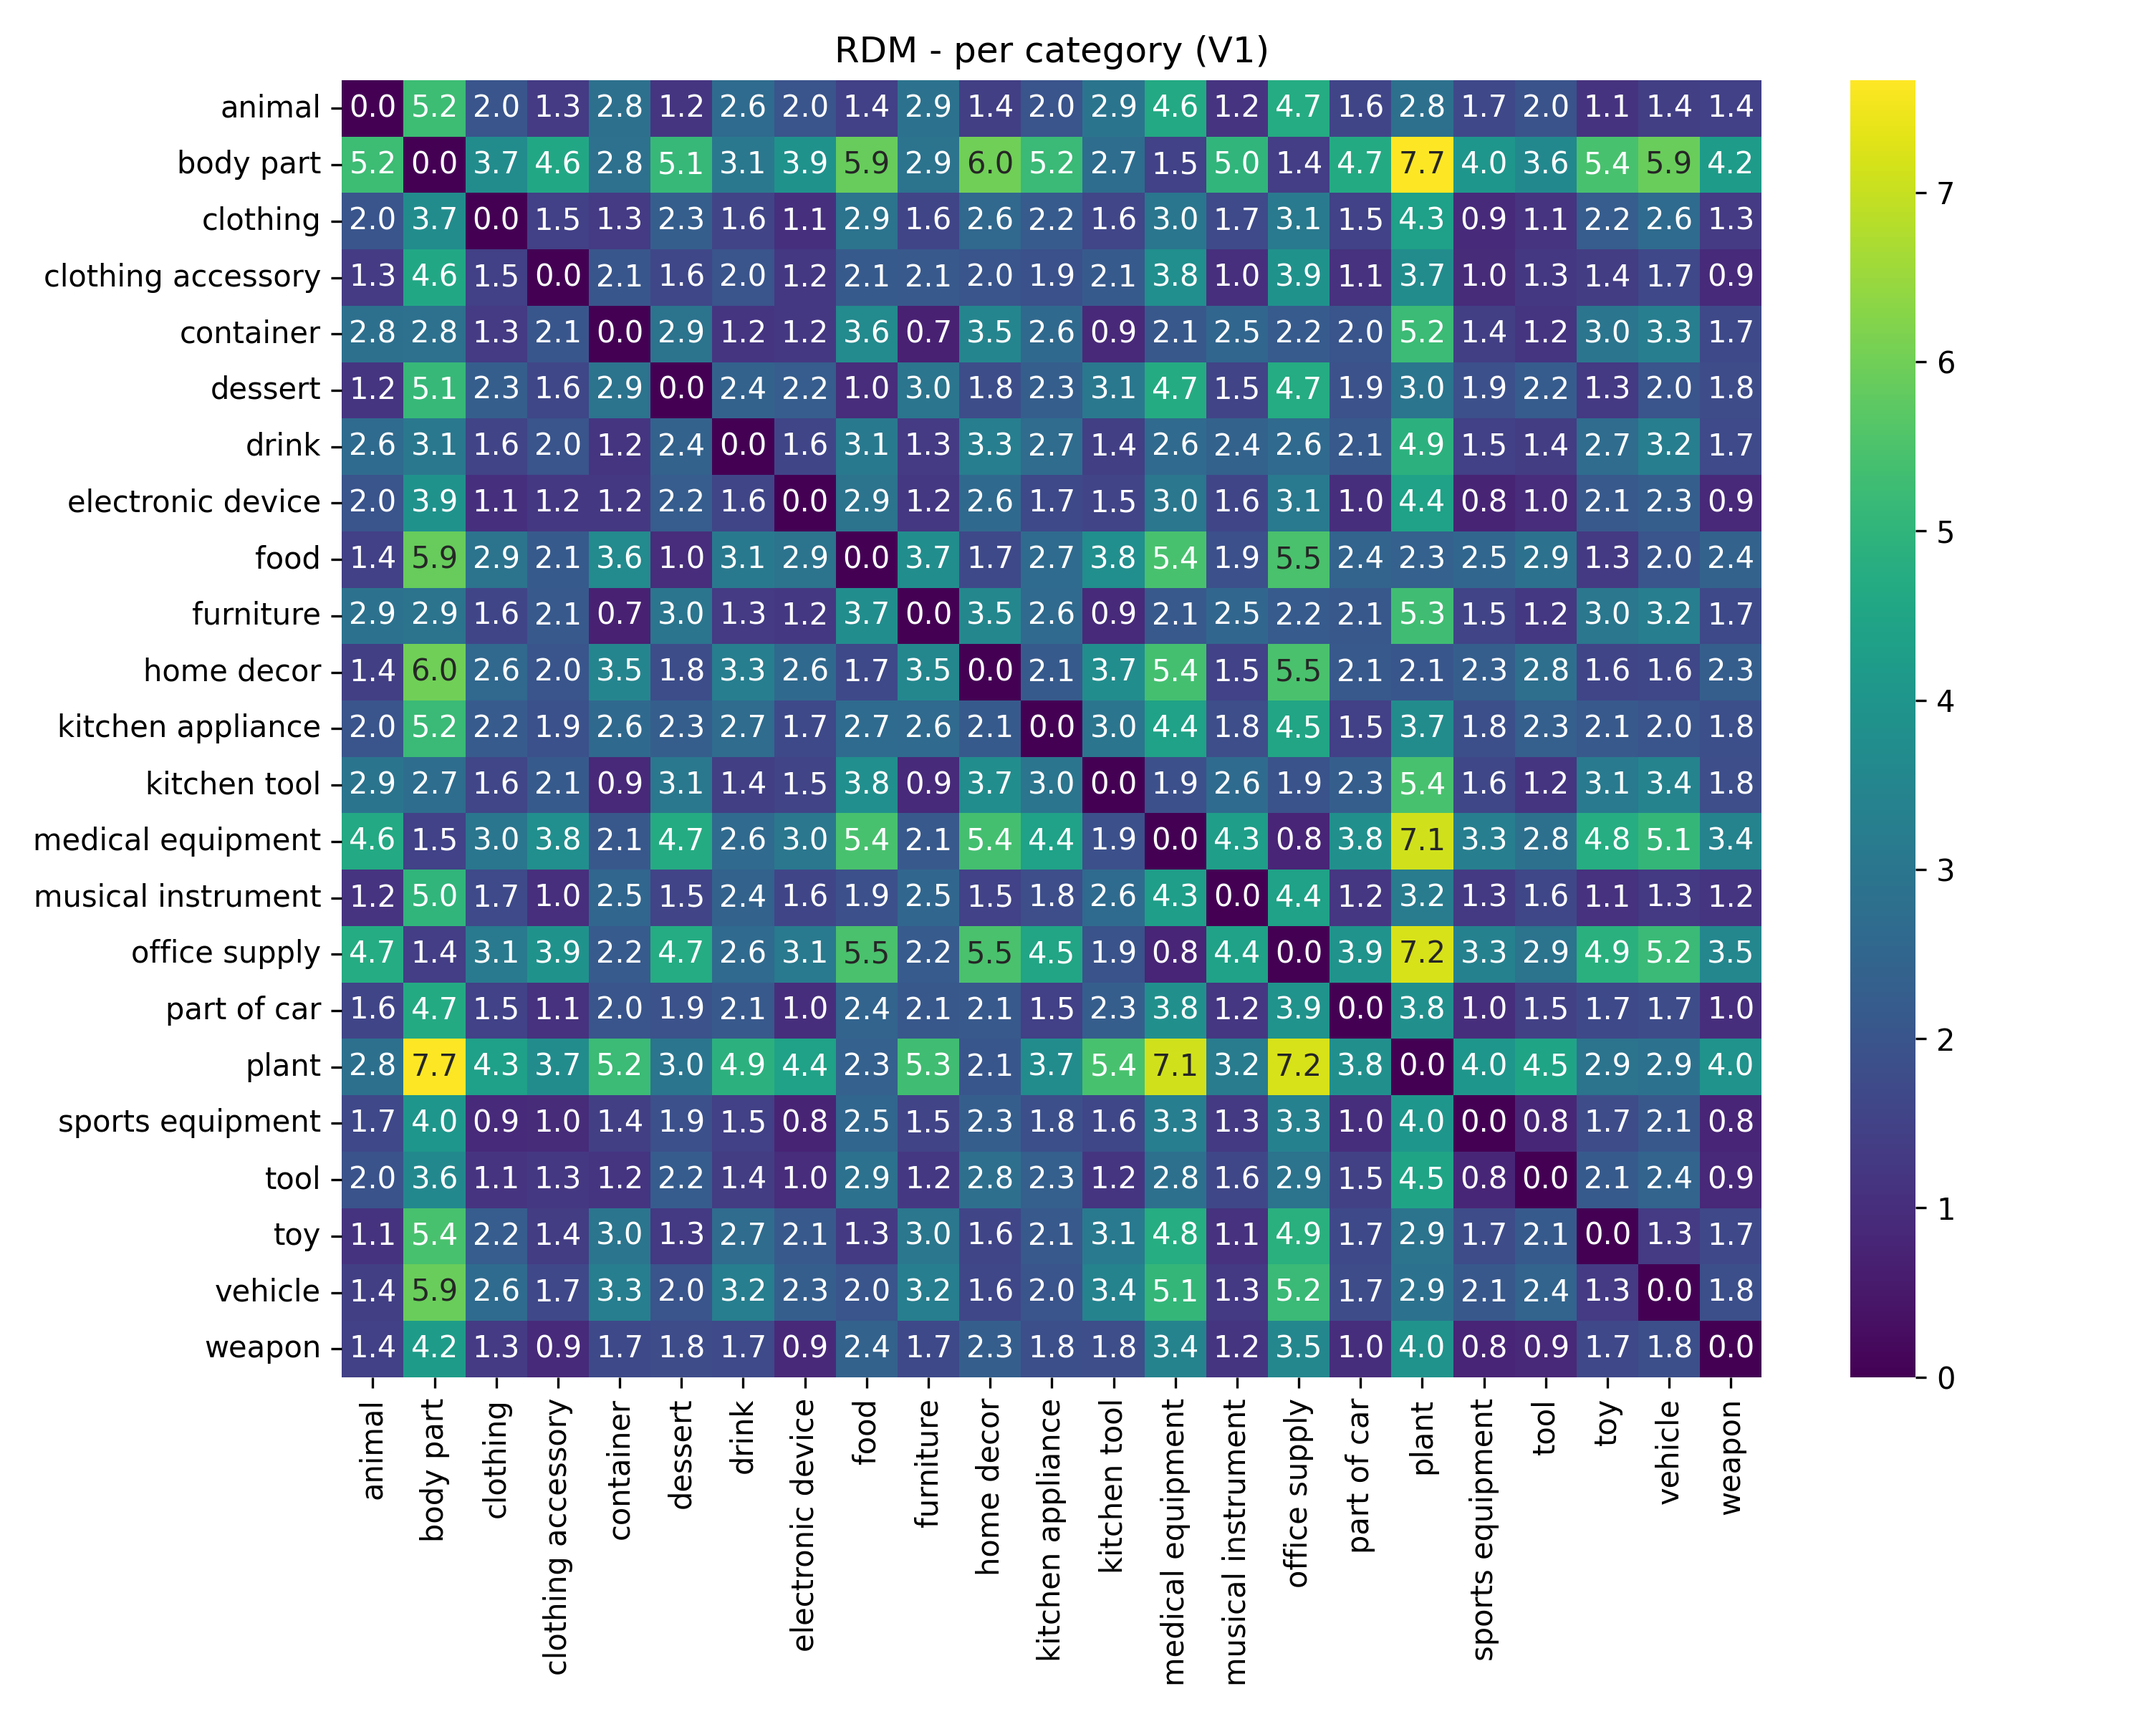
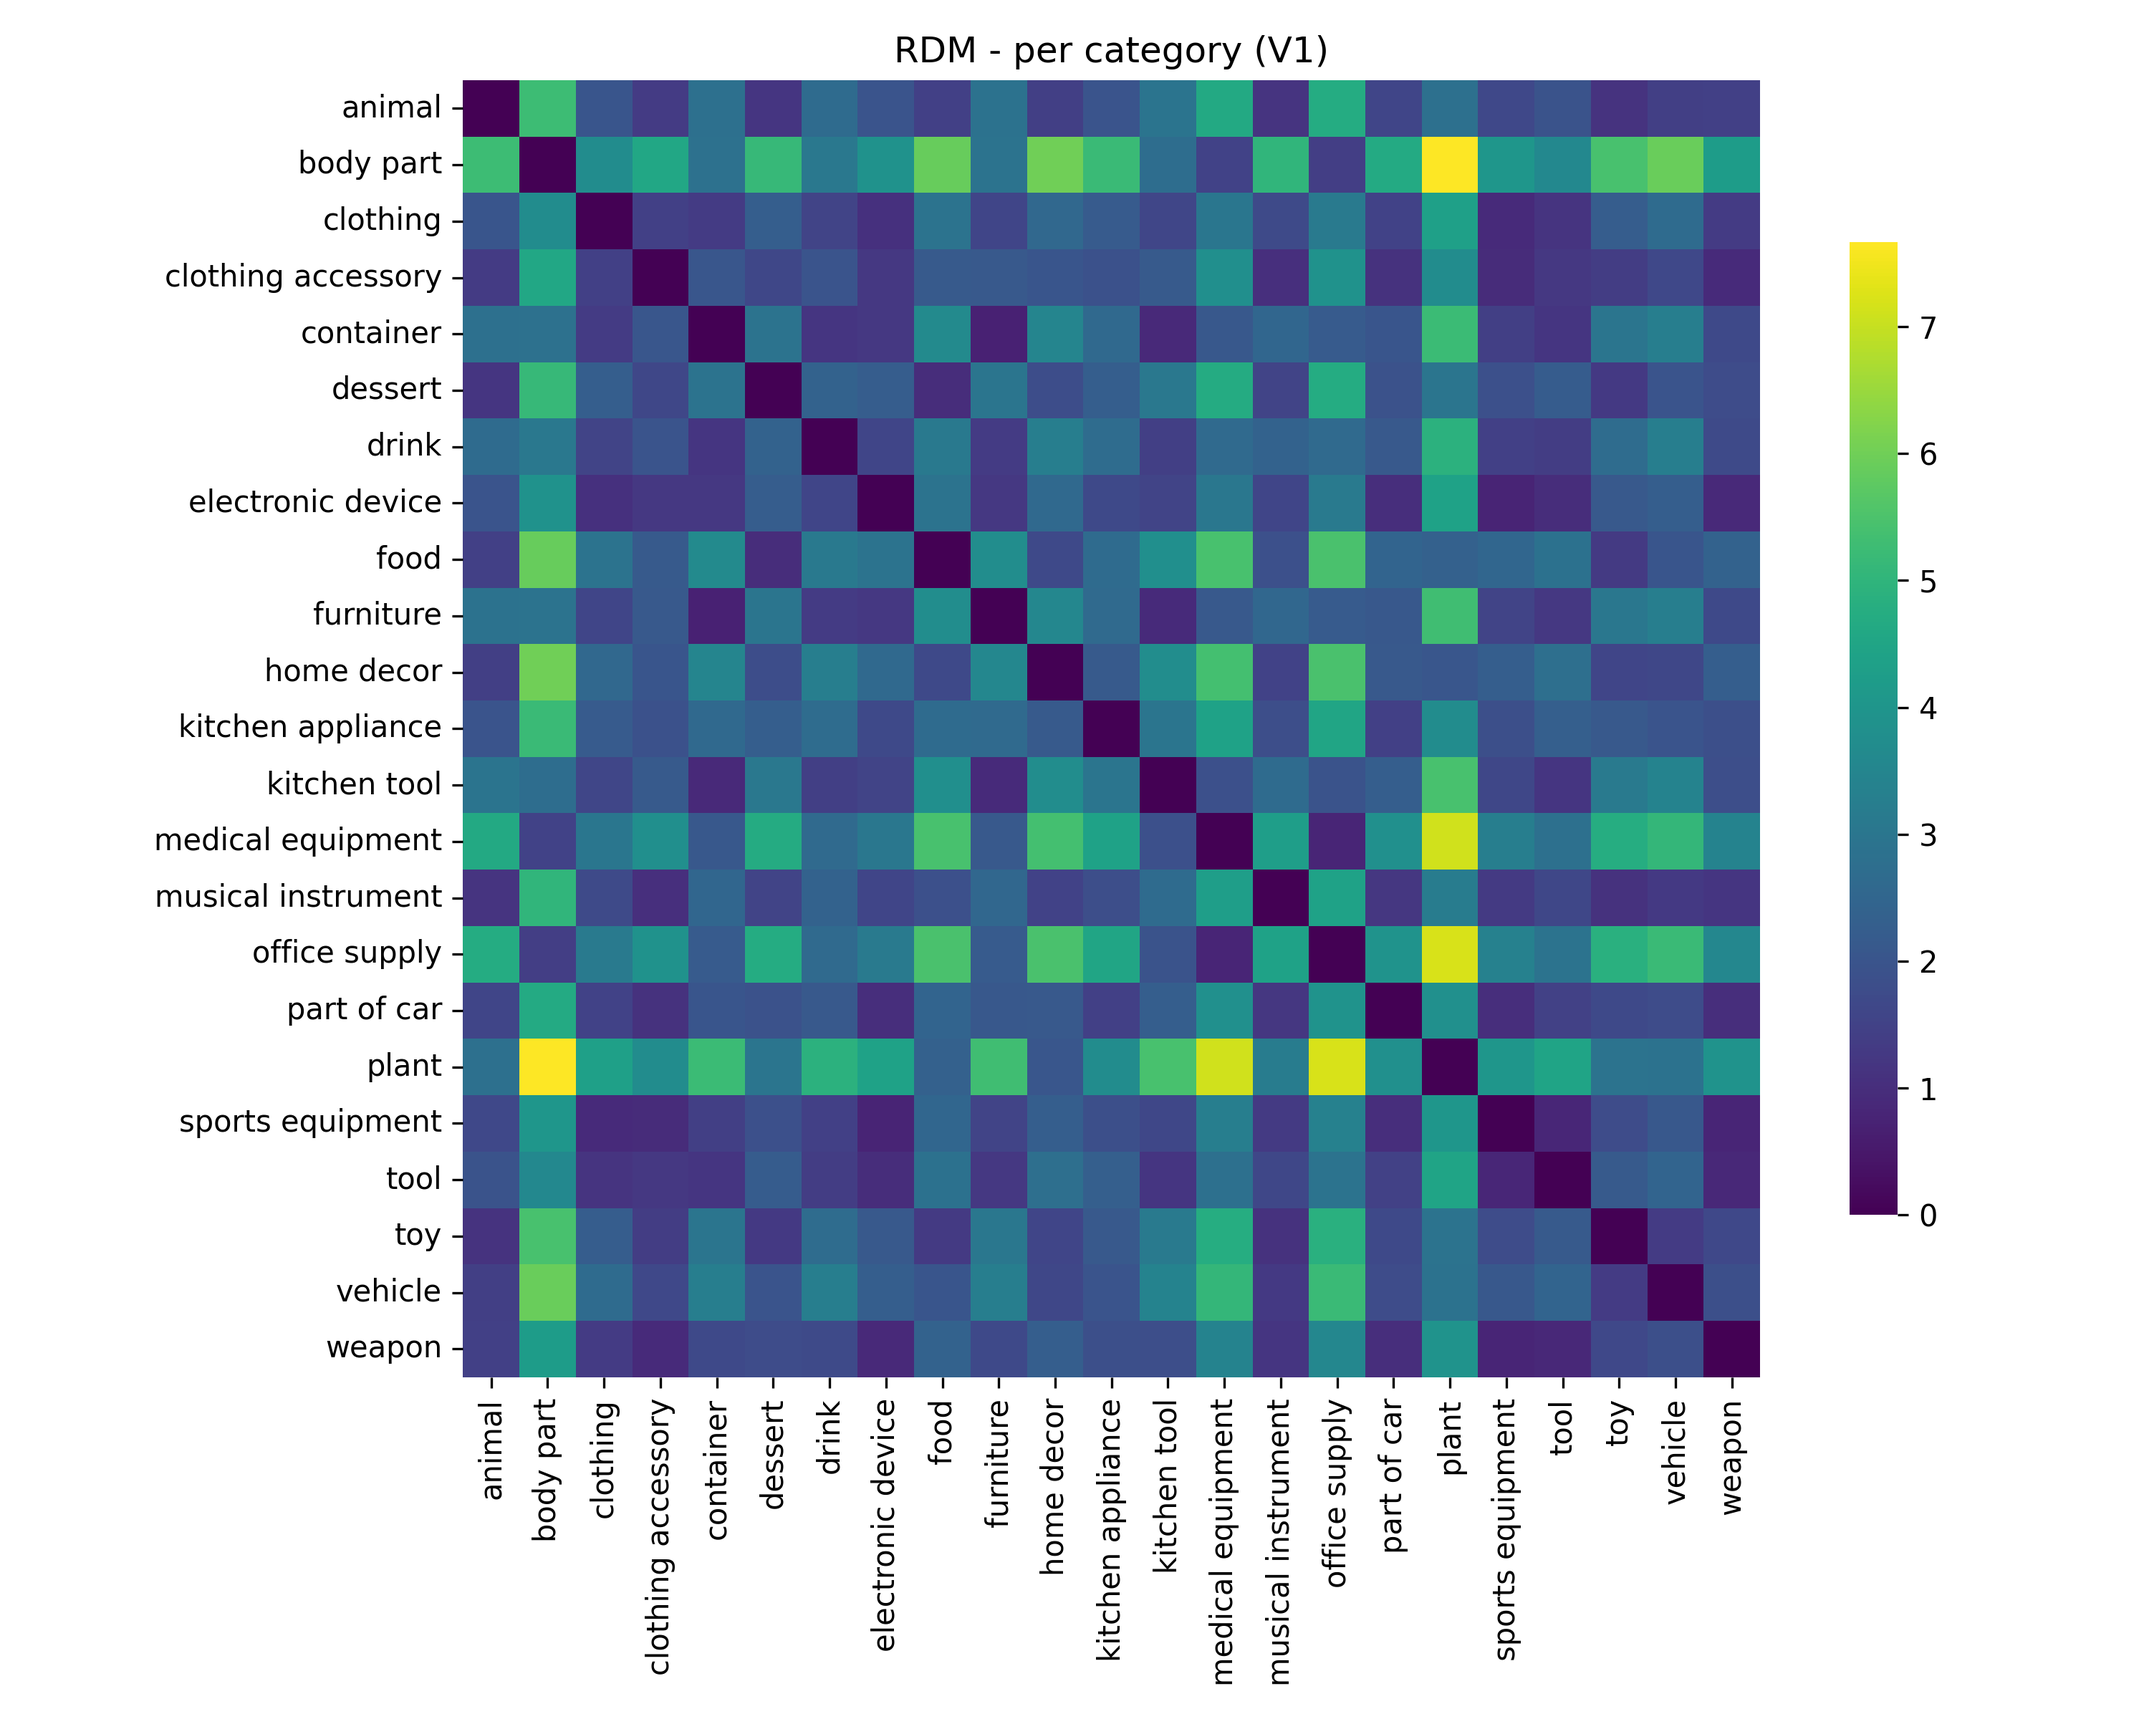
fixed code for rdm display

diff --git a/config.py b/config.py
@@ -7,9 +7,12 @@ image_path = 'C:/Users/mario/OneDrive/Escritorio/NeuroData/Data analysis seminar
 monkey_id = 'MonkeyN'  # Options: 'MonkeyN', 'MonkeyF'
 
 # Animal classes to exclude
-excluded_classes = [
-    'dragonfly', 'earwig', 'grasshopper', 'moth', 'fly', 'beetle', 'bug', 'cockroach',
-    'bee', 'butterfly', 'caterpillar', 'ladybug', 'lightning_bug', 'mosquito', 'praying_mantis'
-]
+excluded_classes = ['alligator', 'ant', 'antelope', 'barnacle', 'bear', 'bird', 'blowfish', 'bull', 'camel', 'cat', 'cheetah',
+ 'chicken_wire', 'chinchilla', 'clam', 'cockatoo', 'cougar', 'coyote', 'crayfish', 'dalmatian', 'dog', 'donkey', 'duckling',
+ 'eel', 'ferret', 'flamingo', 'frog', 'giraffe', 'goldfish', 'gopher', 'groundhog', 'hamster', 'hedgehog', 'horse', 'hyena',
+ 'jellyfish', 'kitten', 'lamb', 'leopard', 'lizard', 'lobster', 'manatee', 'mole', 'monkey', 'mouse1', 'octopus', 'ostrich',
+ 'owl', 'panda', 'parrot', 'pelican', 'pheasant', 'pigeon', 'platypus', 'pony', 'porcupine', 'puffin', 'puppy', 'raccoon', 'ram',
+ 'rattlesnake', 'rhinoceros', 'sardine', 'scorpion', 'seagull', 'seal', 'sheep', 'skunk', 'slug', 'snake', 'squid', 'starfish',
+ 'swan', 'tadpole', 'tick', 'toad', 'turkey', 'vulture', 'warthog', 'weasel', 'wolf', 'yak']
 
 pretrained_model = "ViT-B/32"  # Options: "ViT-B/32", 

diff --git a/utils.py b/utils.py
@@ -11,9 +11,7 @@ import os
 # Function to compute RDMs
 
 def compute_rdm(vectors, labels=None, metric='euclidean', show_heatmap=True, save_path=None, title="RDM"):
-    if labels is None:
-        labels = [f"Item{i}" for i in range(len(vectors))]
-
+    
     # Compute RDM
     dist_array = pdist(vectors, metric=metric)
     dist_matrix = pd.DataFrame(squareform(dist_array), index=labels, columns=labels)
@@ -22,8 +20,11 @@ def compute_rdm(vectors, labels=None, metric='euclidean', show_heatmap=True, sav
     # Optional heatmap
     if show_heatmap or save_path:
         plt.figure(figsize=(10, 8))
-        sns.heatmap(dist_matrix, xticklabels=True, yticklabels=True, cmap="viridis", annot=True, fmt=".1f")
+        sns.heatmap(dist_matrix, xticklabels=True, yticklabels=True, cmap="viridis", annot=False, square=True, cbar_kws={"shrink": 0.75})
         plt.title(title)
+        fontsize = 6 if len(labels) > 25 else 10
+        plt.xticks(fontsize=fontsize)
+        plt.yticks(fontsize=fontsize)
         plt.tight_layout()
 
         # Save if path is given

diff --git a/main.py b/main.py
@@ -36,6 +36,7 @@ animal_df = df[
 ].reset_index(drop=True)
 animal_vectors = animal_df.groupby('Class')[electrode_cols].mean()
 animal_labels = animal_vectors.index.values
+
 # RDM per region per animal
 region_animal_vectors = {
     'V1': animal_df.groupby('Class')[V1_electrode_cols].mean(),
